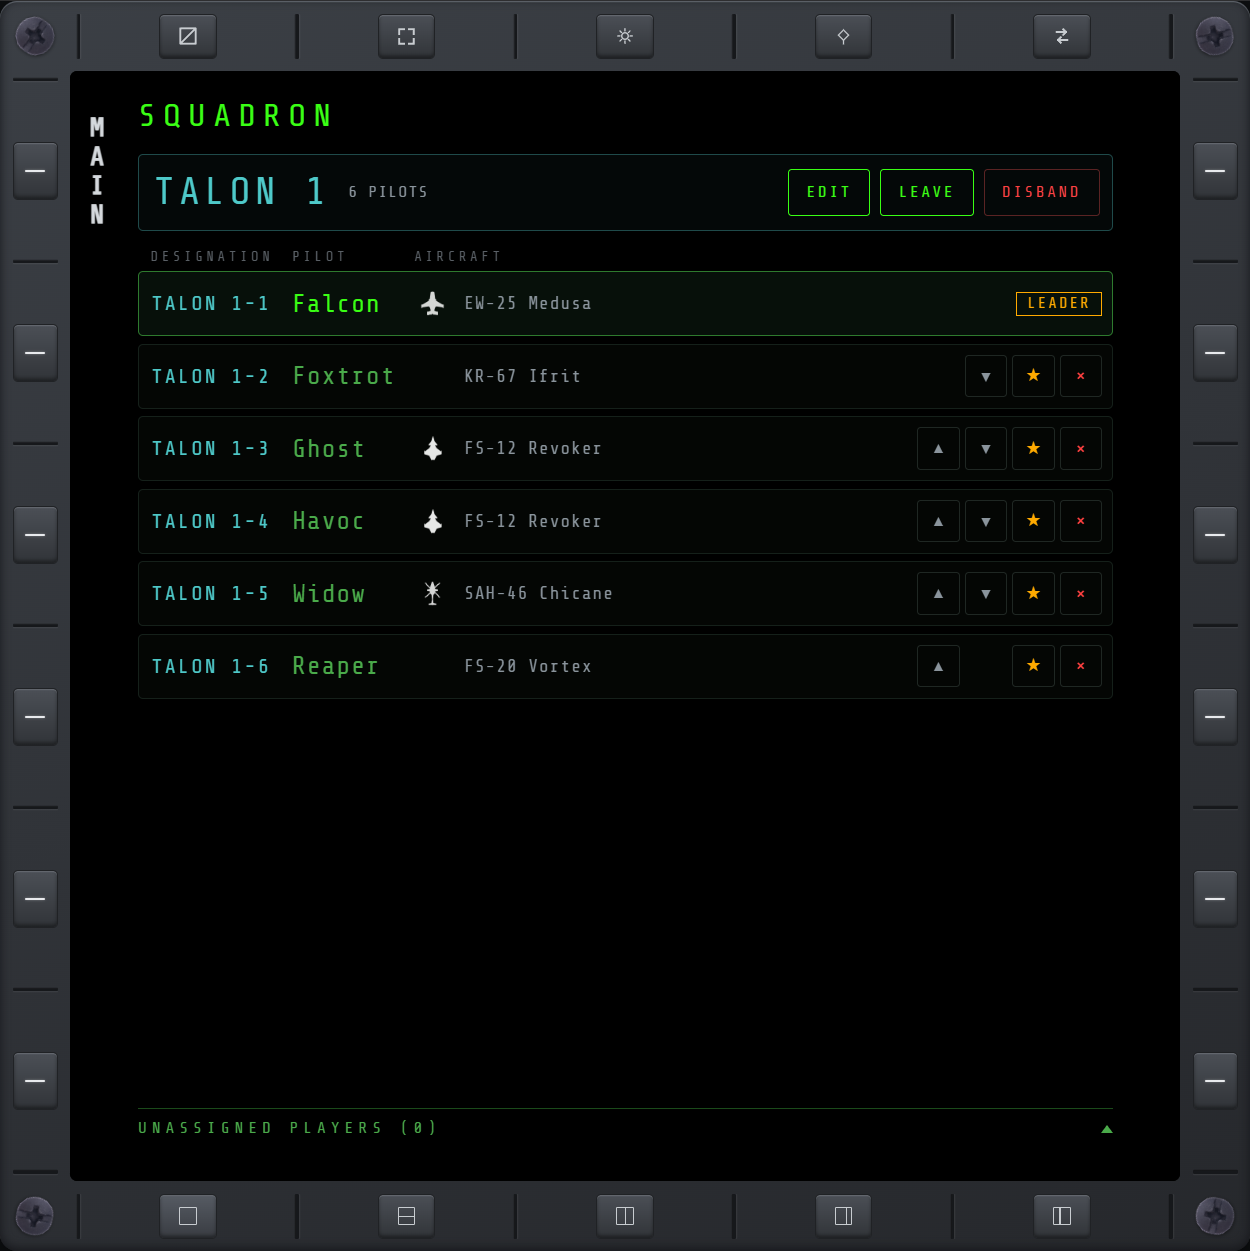
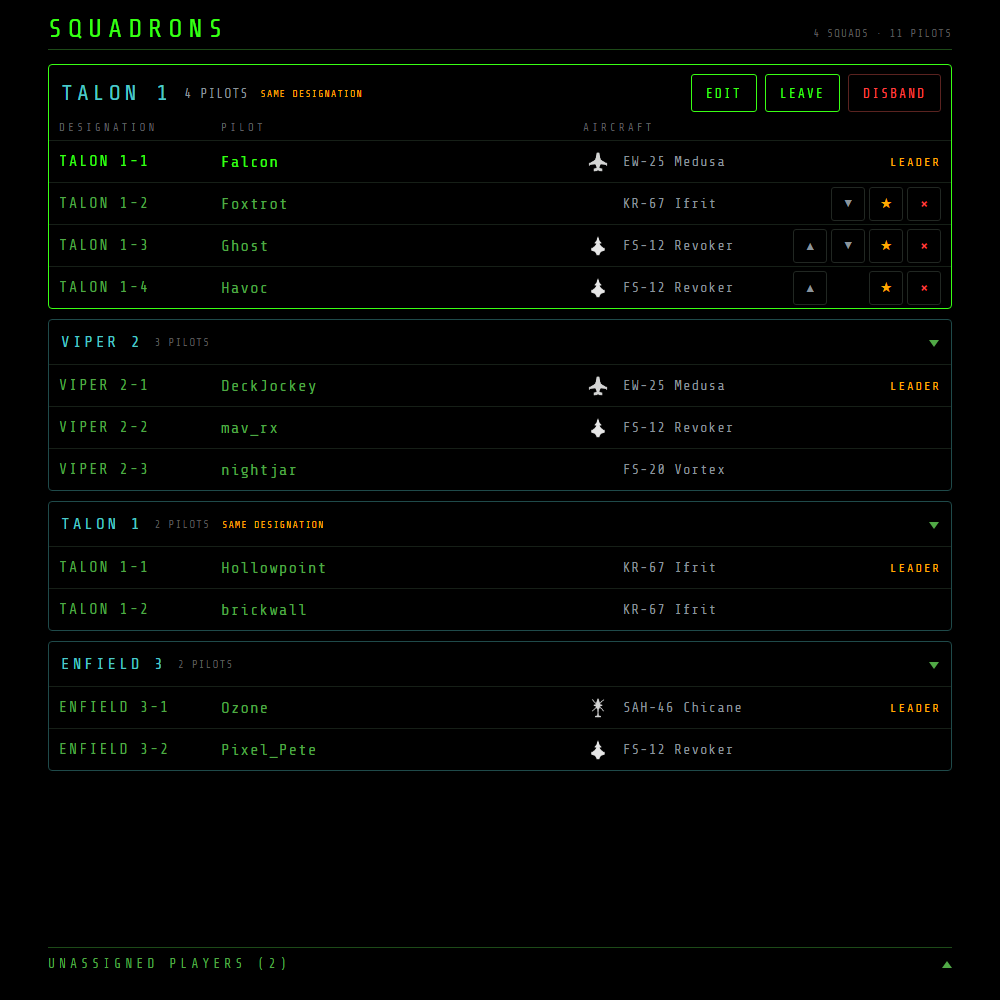
SQD manual rewrite and screenshots for the squadrons redesign (issue 106)
man/sqd.md reorganised around what a squadron is for and the tasks people do: requirements, page map, callsign numbering, start/join/lead/fly/leave, other squads, in-game names, notices, controls, troubleshooting, privacy. Fixes the leader hand-off rule (lowest-numbered member, not oldest). Four 1000x1000 screenshots (leader, no squad, invited, member) captured from the serve_web.py mock framed as in the MFD.
Fixes the SQUADRONS header counts sitting against the title instead of at the right edge; mock member scenario gets leader and own aircraft.

diff --git a/src/web/pages/sqd/sqd.css b/src/web/pages/sqd/sqd.css
@@ -38,6 +38,7 @@ html, body { height: 100%; overflow: hidden; }
   margin: 0 0 14px;
 }
 .sqd-title { font-size: 26px; letter-spacing: 6px; text-align: left; margin: 0; }
+.sqd-head .sqd-note { flex: none; }   /* squad and pilot counts, at the right end */
 
 .sqd-unavailable {
   margin: 0 0 19px;

diff --git a/tools/serve_web.py b/tools/serve_web.py
@@ -699,9 +699,10 @@ _SQD_SCENARIOS = {
                    {"id": "76561198000000004", "name": "Havoc",   "slot": 4, "aircraft": "FS-12 Revoker"}],
                "pendingInvites": []},
     "member": {"role": "member", "leaderId": "76561198000000010", "leaderName": "DeckJockey",
+               "leaderAircraft": "EW-25 Medusa",
                "callsign": "VIPER", "flight": 2,
                "members": [
-                   {"id": _SQD_SELF, "name": "Falcon", "slot": 2, "aircraft": ""},
+                   {"id": _SQD_SELF, "name": "Falcon", "slot": 2, "aircraft": "FS-12 Revoker"},
                    {"id": "76561198000000012", "name": "nightjar", "slot": 3, "aircraft": "FS-20 Vortex"}],
                "pendingInvites": []},
     "invited": {"role": "none", "leaderId": "", "leaderName": "", "callsign": "", "flight": 1, "members": [],
@@ -756,7 +757,7 @@ def _squad_state():
         "leaderId": _SQD["leaderId"], "leaderName": _SQD["leaderName"],
         # Never actually exercised — this mock's role never flips to "member" (no simulated
         # incoming invite exists to accept), see the module comment above.
-        "leaderAircraft": "",
+        "leaderAircraft": _SQD.get("leaderAircraft", ""),
         "callsign": _SQD["callsign"],
         "flight": _SQD["flight"],
         "members": _SQD["members"],

diff --git a/man/sqd.md b/man/sqd.md
@@ -1,89 +1,182 @@
-# SQD
+# SQD — Squadrons
 
-Squadron membership over Steam: form a squad with players in your current match, manage the
-roster, and see every other squad in the faction.
+Fly as a squadron with other NOXMFD pilots in your match. A squadron gives every member a callsign
+designation such as `TALON 1-2`, which replaces their Steam name in the game for everyone running
+NOXMFD. It also links its members for shared navigation, target hand-offs and squad marks on the
+map and HUD. The SQD page is where you form, join, lead and leave a squad, and where you see every
+squad flying in your faction.
 
-![SQD page](images/SQD.png)
+![SQD page, squad leader](images/SQD.png)
 
-## Creating a squad
+## What a squadron does
 
-While you have no squad the page opens with a **CREATE SQUAD** row: a callsign picker and a
-flight-number row (1-9) — pick both and press CREATE to become the leader. Callsigns are a fixed
-list of real military callsigns, not free text. Pending invites don't block it: creating a squad
-declines them. **EDIT** on your squad's header lets the leader change both the callsign and the
-flight number later — re-numbering the flight immediately updates every member's own designation.
+- **Callsigns everywhere.** Each member flies under their designation on the game's map, kill feed,
+  chat, scoreboard and HUD markers, and on every NOXMFD page. Every NOXMFD player in the faction
+  sees these names, including pilots in other squads or in no squad, such as an ATC controller.
+- **Shared navigation.** The leader can share routes and steer points from [WPT](wpt.md).
+- **Target hand-offs.** The leader assigns targets to specific members from [TD](td.md); members
+  answer them on [TGT](tgt.md#squad-designations).
+- **Squad marks.** Squadmates' planes show in teal on [MAP](map.md), and the HUD marks units your
+  squad has targeted (see [TD → HUD marks](td.md#hud-marks)).
 
-If another squad in the faction already flies the callsign and flight you pick, that flight is
-marked amber and a line under the row says so. You can still pick it; the two squads then carry an
-amber **SAME DESIGNATION** note.
+## Before you start
 
-## Your squad
+- Every pilot needs NOXMFD, a Steam copy of the game, and to be in the **same match and faction**.
+- Squads talk over Steam's own peer-to-peer messaging. There's no server and no account to create.
+  On a non-Steam launch the page shows *Squad requires Steam* and the squad feature is off.
+- Players without NOXMFD aren't affected: they can't join a squad and keep seeing Steam names.
+- A squad lasts until it's left or disbanded. It carries over a mission change or restart, but not
+  a game restart: after one, form the squad again.
 
-Your own squad is listed first, in a green box that always stays open. Members render as a table: each pilot's callsign designation, their Steam display name, and their
-current aircraft (blank when not flying one). A designation reads `CALLSIGN FLIGHT-MEMBER` — e.g.
-`TALON 1-2` — where FLIGHT is the squad's current flight number and MEMBER is the pilot's number
-in the squad (the leader is always 1). The leader's row carries an amber LEADER label; on every
-other row the leader sees ▲/▼ (move that pilot one number up or down, swapping with whoever has it),
-a star (promote) and an × (kick). Your own row is lit green.
+## The page
 
-Numbers stick. When a pilot leaves, is kicked or drops out, their number stays empty and shows as
-an OPEN row; nobody else's number changes. The next pilot to join takes the lowest open number, or
-the leader can move someone into it with ▲/▼. When the leader leaves, leadership passes to the
-lowest-numbered member (or whoever the leader promoted with the star), who becomes 1, and everyone
-else is renumbered from 2 in their current order.
+Top to bottom:
+
+1. **SQUADRONS**, with how many squads and pilots fly in your faction on the right.
+2. **CREATE SQUAD** — only while you're not in a squad.
+3. **Invites** you haven't answered — only while you're not in a squad.
+4. **Your squad**, in a green box that always stays open.
+5. **Every other squad** in your faction, each in a teal box. Click a box's header to fold or
+   unfold it.
+6. **UNASSIGNED PLAYERS**, docked at the bottom — not shown to squad members.
+
+An amber banner above the list reports anything that happened without you pressing a button,
+such as a lost squadmate (see [Notices](#notices)).
+
+## Callsigns and numbers
+
+A designation reads `CALLSIGN FLIGHT-NUMBER`, for example `TALON 1-2`:
+
+- **CALLSIGN** is the squad's name, picked from a fixed list of real military callsigns.
+- **FLIGHT** is the squad's flight number, 1 to 9.
+- **NUMBER** is the pilot's place in the squad. The leader is always `1`.
+
+Numbers stick. When a pilot leaves, is kicked or drops out, their number stays empty as an **OPEN**
+row and nobody else is renumbered, so no one's name changes mid-flight. The next pilot to join takes
+the lowest open number. When the leader leaves, the new leader becomes `1` and everyone else is
+renumbered from `2`, keeping their order.
+
+Two squads may fly the same callsign and flight. Both then show an amber **SAME DESIGNATION** note,
+and the pickers mark that pair in amber, but nothing stops you from using it. On comms, use a
+different flight number to keep the two apart.
+
+## Start a squad
+
+![SQD page, no squad](images/SQD_NO_SQUAD.png)
+
+While you're not in a squad, the page opens with the **CREATE SQUAD** row:
+
+1. Pick a callsign.
+2. Pick a flight number, 1 to 9. A flight another squad already flies under that callsign is marked
+   amber, and a line under the row names it.
+3. Press **CREATE**. You're the leader, `CALLSIGN FLIGHT-1`.
+
+Creating a squad declines any invites you haven't answered.
+
+## Join a squad
+
+![SQD page, invites pending](images/SQD_INVITED.png)
+
+An invite shows as a card under the CREATE SQUAD row with the squad's callsign and flight, who sent
+it, and the designation you'd get, for example `from DeckJockey · as VIPER 2-4`.
+
+- **ACCEPT** joins that squad and declines every other invite, since you can only be in one squad.
+- **DECLINE** turns that one invite down.
+
+Invites queue oldest first and never expire: one stays until you answer it. While invites wait you
+can still create your own squad, browse the other squads to see who's in them, and accept whichever
+you like.
+
+## Lead a squad
+
+As the leader, your squad's header has **EDIT**, **LEAVE** and **DISBAND**. Each member's row has
+four controls:
+
+| Control | What it does |
+|---|---|
+| ▲ / ▼ | Moves the pilot one number up or down, swapping with whoever has it, or into an OPEN number. |
+| ★ | Makes that pilot the leader. You leave the squad. |
+| × | Removes the pilot from the squad. Their number turns OPEN. |
+
+- **Invite** a pilot from the **UNASSIGNED PLAYERS** bar: open it and press **INVITE** on their row.
+  They show as *INVITED · AWAITING RESPONSE* until they answer; an invite can't be withdrawn.
+- **EDIT** opens the callsign and flight pickers in the header. **APPLY** renames the squad, and
+  every member's designation changes at once; each pilot keeps their number.
+- **DISBAND** ends the squad for every member.
+- **Share** routes and steer points from [WPT](wpt.md#squad-sharing), and hand targets to members
+  from [TD](td.md), which appears on TGT's nav row while you lead a squad.
+
+## Fly as a member
+
+![SQD page, squad member](images/SQD_MEMBER.png)
+
+As a member, you see your squad with your own row lit green and the leader marked **LEADER**. The
+header has only **LEAVE**. What the leader shares reaches you on your own pages:
+
+- Shared routes and steer points appear on [WPT](wpt.md#squad-sharing) with ACCEPT/REJECT.
+- Targets the leader assigns you pop up on [TGT](tgt.md#squad-designations).
+
+## Leave a squad
+
+- **LEAVE** as a member takes you out at once. Your number turns OPEN for the rest of the squad.
+- **LEAVE** as the leader hands the lead to the lowest-numbered member, then takes you out. Use ★ on
+  a member's row instead to pick who takes over.
+- **DISBAND** (leader only) ends the squad for everyone.
+
+Leaving brings your Steam name back for everyone.
+
+If a squadmate crashes or force-quits, the rest of the squad notices on its own within about 30
+seconds and drops them, with a notice. A pilot still loading after a mission restart gets about two
+minutes, so restarting a mission doesn't break the squad.
 
 ## Other squads
 
-Every other squad in your faction follows, each in its own teal box with its pilot count: click a
-header to fold or unfold it. They are read-only. The count at the top right is every squad and pilot
-in the faction. You see these squads whether or not you are in a squad yourself, so an ATC
-controller with no squad can still read every callsign.
+Every other squad in your faction is listed below your own, read-only, with each pilot's
+designation, Steam name and aircraft. You see them whether you're in a squad or not, so anyone
+coordinating several squads, such as an ATC controller, can read every callsign from one page.
 
-## Designations as in-game names
+The UNASSIGNED PLAYERS bar lists the faction's NOXMFD pilots who aren't in any squad.
 
-Every pilot in a squad shows under their designation instead of their Steam name in your game: the
-map, kill feed, chat, scoreboard and HUD markers, and every NOXMFD page. That holds for your own
-squad, for other squads, and whether or not you are in a squad yourself, as long as the pilot is
-running NOXMFD. Leaving a squad brings that pilot's Steam name back. Players without NOXMFD show
-under their Steam name. The NOXMFD AKF feed adds the Steam name in parentheses, e.g.
-`TALON 1-2 (Roke) [F/A-26]`, and the SQD tables keep both columns.
+## Names in the game
 
-## Unassigned players
+Every squad member's designation replaces their Steam name in your game: the map, kill feed, chat,
+scoreboard, HUD markers, and NOXMFD's own pages, including the ATC extension. That holds for your
+own squad and for every other squad.
 
-The bar docked at the bottom, `UNASSIGNED PLAYERS (n)`, lists faction-mates in the current match who
-are also running NOXMFD and aren't in any squad. Click it to open or close it; it opens upward and
-scrolls when long. It is open while you have no squad and collapsed once you lead one. As the leader,
-**INVITE** on a row sends an invite, and the player then shows there as INVITED until they answer.
-Squad members don't see the list.
+- Only players running NOXMFD see designations; everyone else sees Steam names.
+- A name changes within a couple of seconds of a join, leave, kick, rename or renumber.
+- The [AKF](akf.md) feed adds the Steam name in parentheses, e.g. `TALON 1-2 (Roke) [F/A-26]`, and
+  the SQD tables show both names.
 
-## Invites
+## Notices
 
-Incoming invites queue oldest-first under the CREATE SQUAD row and show ACCEPT/DECLINE, with the
-designation you would get; accepting one declines the rest, and so does creating a squad, since
-squad membership is exclusive. An invite never expires on its own — it stays pending until you
-answer it, however long that takes.
+| Notice | Meaning |
+|---|---|
+| *Your squad was disbanded by the leader.* | The squad ended. |
+| *You were removed from the squad by the leader.* | You were kicked. |
+| *Lost contact with your squad leader…* | Your leader went silent, probably a crash or disconnect. You're out of the squad. |
+| *Lost contact with NAME…* | A member went silent and was dropped. Their number turns OPEN. |
+| *NAME is already in LEADER's squad — invitation rejected.* | The pilot you invited is in another squad. |
+| *NAME tried to recruit MEMBER, who is already in your squad.* | Another leader invited one of your members. Nothing changes. |
+| *Couldn't hand off leadership to NAME…* | The pilot you promoted didn't answer. You're still the leader; try again. |
 
-## Leaving
+## Controls
 
-**LEAVE** always exits your own squad: immediate as a member; as the leader, it hands off to the
-oldest remaining member first, then exits. The star on any other member's row does the same
-hand-off-and-exit but lets you pick who takes over instead. **DISBAND** (leader only) ends the
-squad for every member at once, rather than just yourself.
+Everything on the page is a click or tap. With SQD as the [SOI](keybinds.md#sensor-of-interest-soi),
+the [PAD cursor](keybinds.md#pad-cursor) can press any button, and **Cursor Zoom In/Out** scrolls the
+page and the unassigned list.
 
-If a leader or member crashes or force-quits instead, the rest of the squad notices on its own
-within about 30 seconds and drops them, with a notice — no action needed on your end. Pilots
-still loading after a mission restart get a longer allowance, so restarting the mission doesn't
-break the squad.
+## Troubleshooting
 
-## Sharing waypoint routes
+- **A pilot isn't in UNASSIGNED PLAYERS.** They need NOXMFD running, the same faction, and no squad
+  of their own. A pilot who just launched shows up within a few seconds.
+- **Someone's name doesn't change.** They need to be in a squad and running NOXMFD. Allow a couple of
+  seconds after a squad change.
+- **The page says *Squad requires Steam*.** The game didn't start through Steam, so squads are off
+  for this session.
 
-Once you're a squad leader with at least one member, each route on the [WPT](wpt.md) page gets a
-share button. Sharing pushes the route to every member as a read-only entry with ACCEPT/REJECT;
-later edits re-broadcast automatically. A member's own progress through a shared route carries
-over across updates. Shared routes unlock for editing the moment the squad ends or the sharer
-stops being leader.
+## Privacy
 
-## Hand off targets
-
-While in a squad, a **TD** nav item appears on [TGT](tgt.md) — see [TD](td.md) for handing specific
-targets off to specific members.
+Squads exchange data over Steam with other players. Your designation parts, squad leader and fuel
+level go to every NOXMFD player in your faction; routes, target hand-offs and squad marks go only to
+your own squad. [SECURITY.md](../SECURITY.md) lists exactly what is sent and to whom.

diff --git a/README.md b/README.md
@@ -103,7 +103,7 @@ pilot, with HOTAS-friendly keybinds to match.
   - **[FCR](man/rdr.md#fcr)** — Fire Control Radar
   - **[HSD](man/rdr.md#hsd)** — Horizontal Situation Display
 - **[RWR](man/rwr.md)** — radar warning receiver.
-- **[SQD](man/sqd.md)** — squadron membership and shared waypoint routes.
+- **[SQD](man/sqd.md)** — squadrons: form and lead a squad, fly under its callsigns, and see every squad in your faction.
 - **[TGP](man/tgp.md)** — targeting-pod camera.
   - **[CFG](man/tgpcfg.md)** — feed rate, resolution, and quality settings.
 - **[TGT](man/tgt.md)** — target-selection table.
